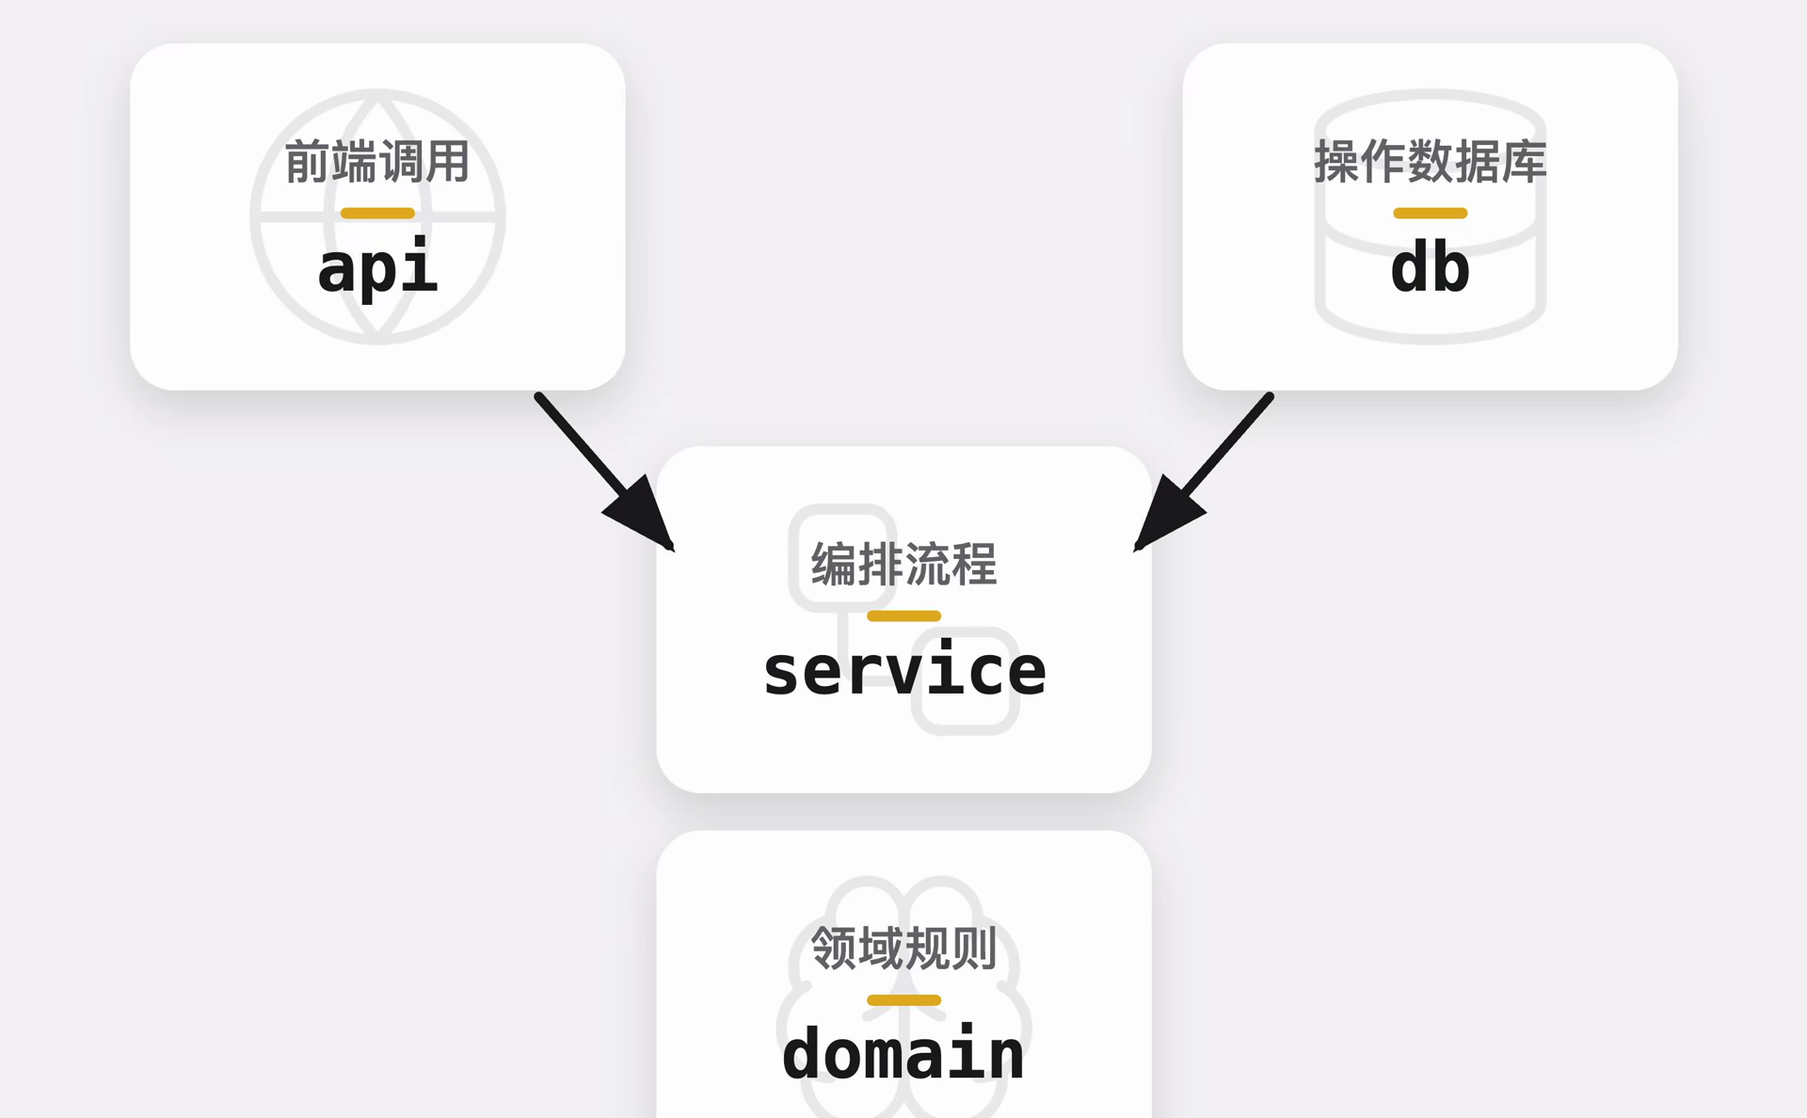
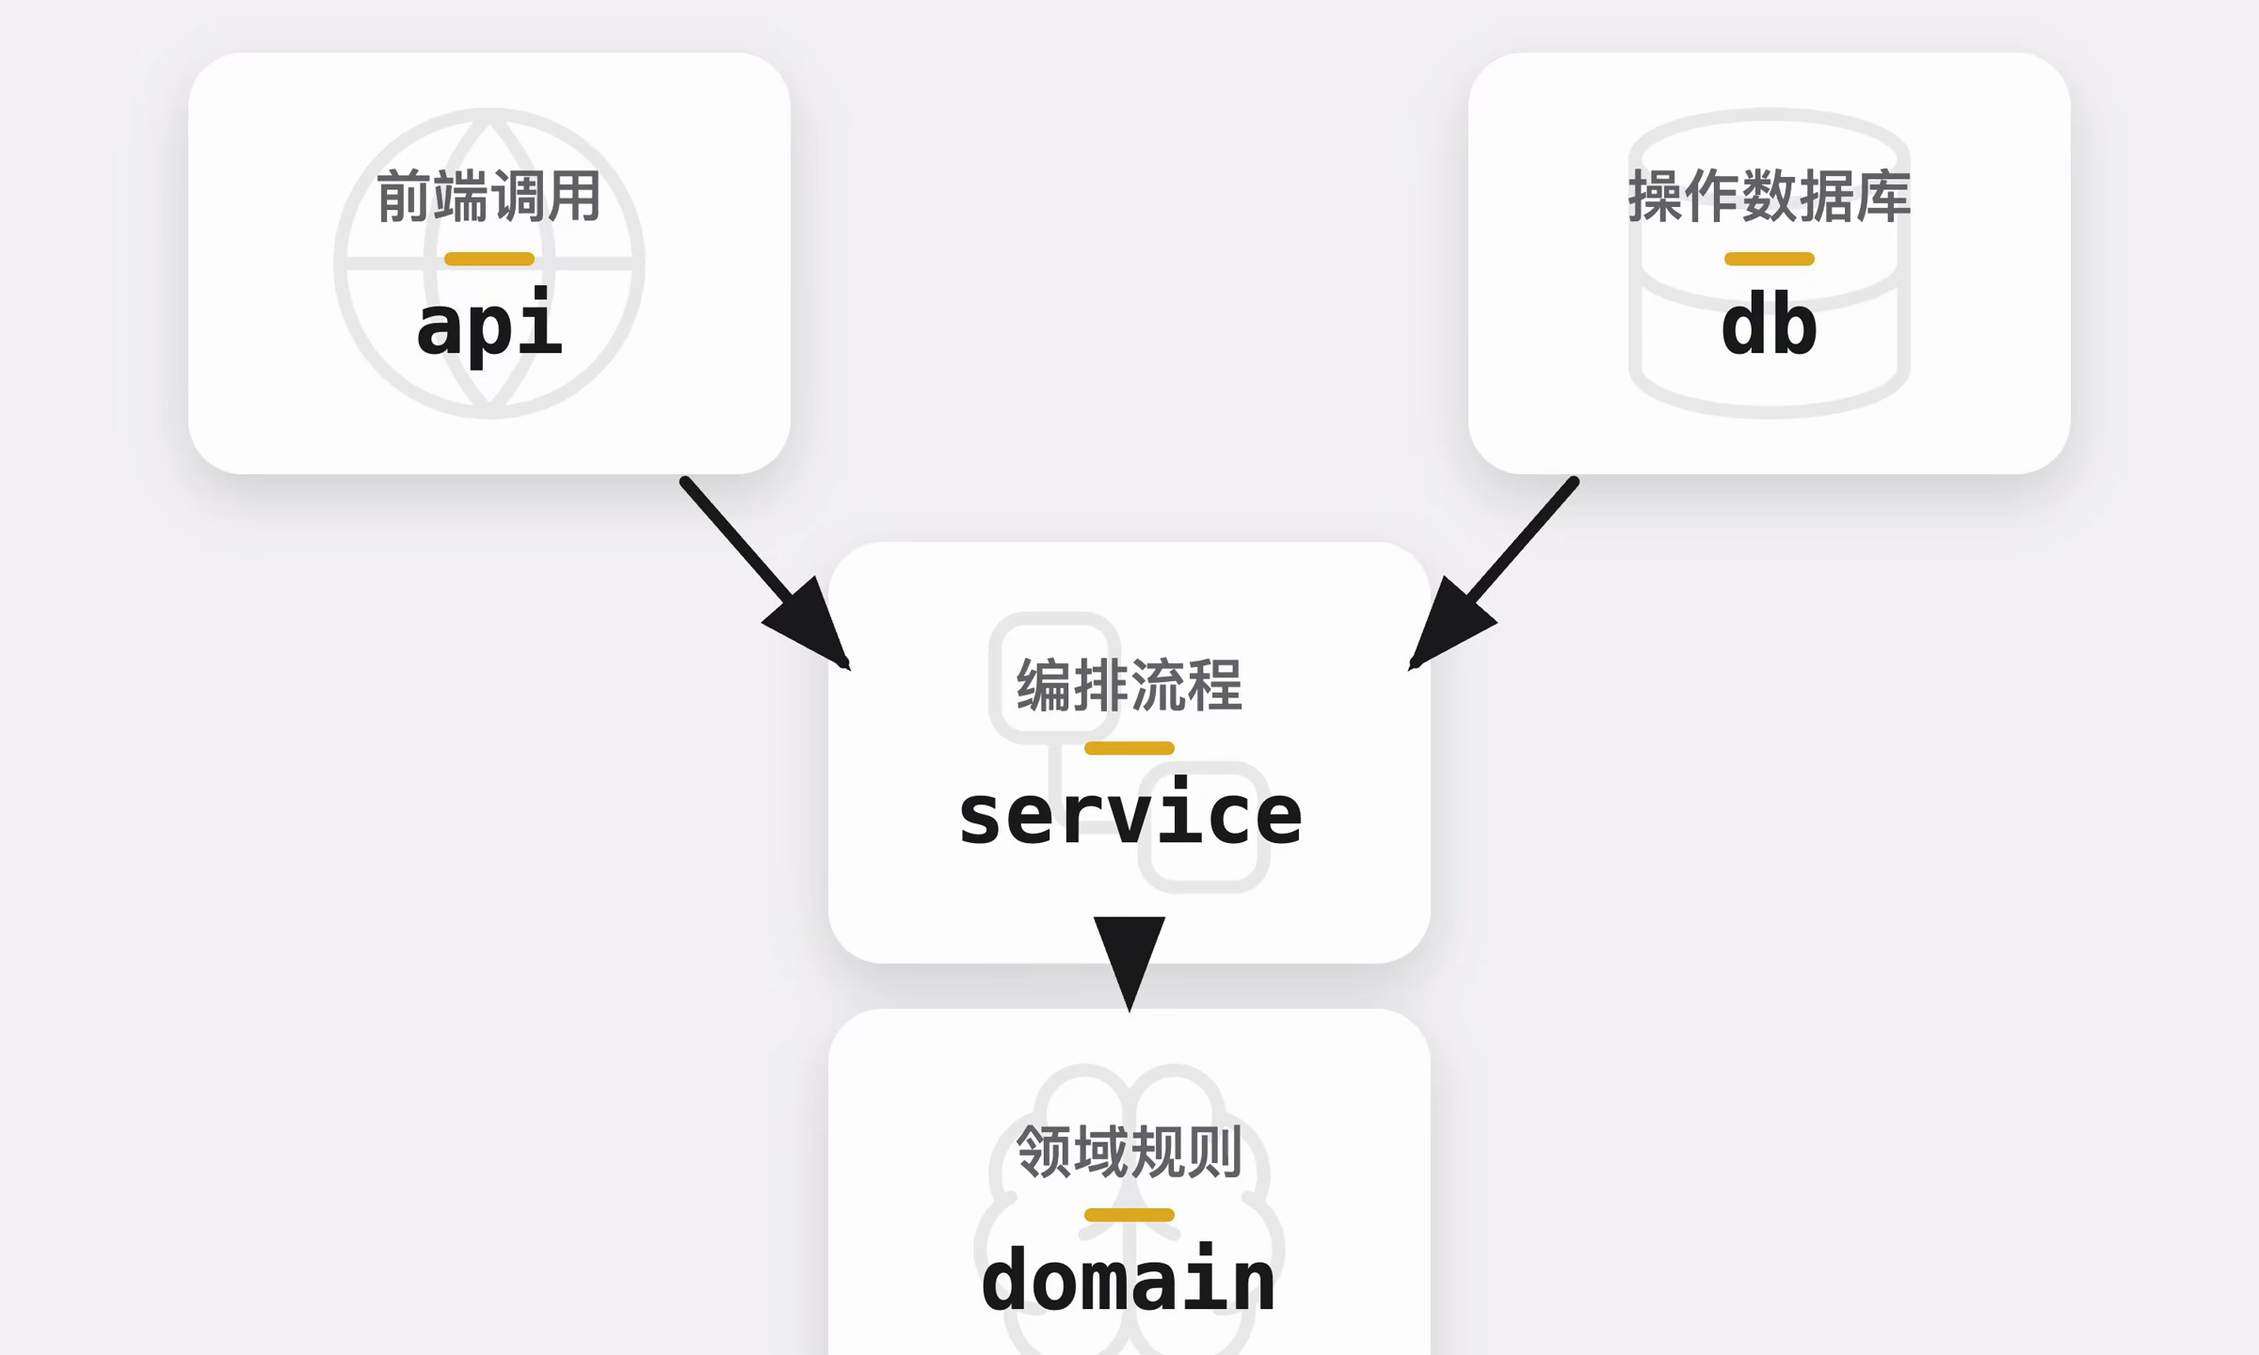
docs: 优化架构设计、TDD、企业 Agent 架构四篇文章的配图和标题
重选过渡帧和裁切，补上缺的箭头、字段和设计思路图；企业 Agent 一篇去掉标题前缀并拆开长段；修正错字和行内代码标记。

diff --git a/blog/design-agent-architecture/index.md b/blog/design-agent-architecture/index.md
@@ -5,7 +5,7 @@ date: 2026-11-01
 toc_max_heading_level: 2
 ---
 
-众所周知，agent 就是个循环，看起来非常简单。但如果真要做一个 agent，要考虑的问题其实不少。如何适配多种模型，如何确保命令执行安全，以及在模型快速进化的现在，要如何设计 harness 来保持可扩展性。这篇文章将从零设计一个 Agent 后端。你不仅能了解一个 agent 到底应该怎么设计，更重要的是，这套设计思路可以移植到任何系统上。
+众所周知，agent 就是个循环，看起来非常简单。但如果真要做一个 agent，要考虑的问题其实不少。如何适配多种模型，如何确保命令执行安全，以及在模型快速进化的现在，要如何设计 harness 来保持可扩展性。这篇文章将从零设计一个 agent 后端。你不仅能了解一个 agent 到底应该怎么设计，更重要的是，这套设计思路可以移植到任何系统上。
 
 ![Agent 循环本身只有几行，难点在于要接多家模型，还要防住危险的命令](./agent-loop.png)
 
@@ -13,17 +13,21 @@ toc_max_heading_level: 2
 
 ## 一个 Agent 后端的工作流程
 
-首先，让我们梳理一下一个 agent 后端的工作流程。第一步，开始一个新对话，或者继续之前的旧对话，然后收到前端发送的用户信息，接着将指令，可用工具，历史消息等信息组织成上下文，再将上下文发送给模型，收到模型回复。如果模型的回复中有工具调用，就另外调一次模型来审核工具调用是否合理。当然也需要另外组织一份上下文。接着，如果审核通过，就执行工具，并将执行结果，带着之前的上下文一起重新传给模型。如果审核不通过，就返回拒绝结果。重复前面的步骤 3 到步骤 6，直到模型的响应中不再有工具调用，或者循环次数达到上限，就结束这轮对话，将信息返回给前端。这个过程中，每条信息产生的时候，都会做持久化存储。
+首先，让我们梳理一下一个 agent 后端的工作流程。第一步，开始一个新对话，或者继续之前的旧对话，然后收到前端发送的用户信息，接着将指令，可用工具，历史消息等信息组织成上下文，再将上下文发送给模型，收到模型回复。如果模型的回复中有工具调用，就另外调一次模型来审核工具调用是否合理。当然也需要另外组织一份上下文。接着，如果审核通过，就执行工具，并将执行结果，带着之前的上下文一起重新传给模型。如果审核不通过，就返回拒绝结果。
 
 ![工作流程共八步，第 3 到第 6 步循环执行，每条消息都会持久化](./workflow.png)
 
+重复前面的步骤 3 到步骤 6，直到模型的响应中不再有工具调用，或者循环次数达到上限，就结束这轮对话，将信息返回给前端。这个过程中，每条信息产生的时候，都会做持久化存储。
+
 这个流程其实实现起来并不难。如果我们不带着任何设计去实现这个流程，大概就是一个函数负责其中一个步骤。但这样会让代码变得难以维护又难以测试。比如，想把使用的模型从 OpenAI 换成 Anthropic 的协议，得同时修改多个地方。又或者想要测试一下流程，却得真正调用模型，既花钱又很慢。
+
+![每个步骤一个函数：协议写死在各处，跑一次测试就要花钱又花时间](./hardcoded.png)
 
 ## 领域层、应用层与适配层
 
 所以为了好维护，好测试，我们通常会将要做的事分为几层，每层都对应不同的工作性质。
 
-![领域层负责定义，应用层负责编排，适配层在最外圈](./layers.png)
+![领域层负责定义，应用层负责编排，适配层负责翻译](./layers.png)
 
 首先是领域层，它用来定义系统自己的语言。比如什么是对话，什么是工具，什么是上下文。每个系统都有自己对这些概念的理解。怎么定义这些概念，决定了这个系统会是什么样子的。
 
@@ -77,11 +81,15 @@ toc_max_heading_level: 2
 
 因为 `Context` 要用于不同的任务，输出类型也会不同。回复用户的时候，要的是 `AssistantMessage`。后面审核工具调用时，要的则是审核的结论。所以我使用了一个泛型来定义输出类型。这里我使用的是 Python 的泛型语法。如果你感兴趣的话，可以查看我之前的一期视频。
 
+![Context 用泛型 O 表示输出类型，回复用户时是 AssistantMessage，审核时是审核结论](./context-generic.png)
+
 ## 模型调用与协议翻译
 
 那有了上下文之后，我们要怎么发给模型呢？和 `SessionStore` 一样，我们在应用层定义一个 `ModelClient` 接口，规定怎么调用模型，具体实现细节交给适配层。它只有一个方法，`generate`，传入 `Context` 和需要的模型参数，然后返回 `Context` 里 `output_type` 指定的类型。
 
 模型参数指的是，用的哪个模型，思考多深，我们用一个叫 `ModelSettings` 的对象来包装。因为这两个参数总是成对出现，所以我将它们包在一起。这里的 `effort` 我们定义了六档，和实际的各个模型厂商会有差别，等会儿的适配层要进行翻译。
+
+![ModelClient 只有 generate 一个方法，ModelSettings 包着模型和六档 effort](./model-settings.png)
 
 适配层我们实现三个主流协议，分别是 OpenAI，Anthropic 和 Google。这三家的请求格式都不太一样。就拿思考深度来说，在我们的系统里我们叫 `effort`，而 OpenAI 叫 `reasoning_effort`，Anthropic 叫 `output_config.effort`，Gemini 叫 `thinking_level`。所以我们必须有一个翻译的动作。之后如果出现了新的协议，再在适配层重新定义一个类即可。只要实现了 `ModelClient` 接口，我们的应用层都可以直接使用，而不用修改任何代码。
 
@@ -97,9 +105,11 @@ toc_max_heading_level: 2
 
 ![ToolCallReviewer 产出 Decision，拒绝原因作为 ToolResult 的内容交还给模型](./roles.png)
 
-## 用 AgentService 编排流程
+## AgentService 的流程编排
 
-那么到这里，我们领域该定义的已经定义完了，我们可以编排整个流程了。在应用层定义一个 `AgentService` 来包装这个流程，它需要拥有 `ModelClient` 和 `SessionStore` 来使用外部服务。然后是两个角色 Assistant 和 Reviewer，还有两个角色各自的模型设置。这样两个角色就可以用不同的模型和思考深度。Reviewer 可以考虑用一个更便宜更快的模型。最后是循环次数的上限 `max_iterations`，防止模型反复调用工具停不下来。
+那么到这里，我们领域该定义的已经定义完了，我们可以编排整个流程了。在应用层定义一个 `AgentService` 来包装这个流程，它需要拥有 `ModelClient` 和 `SessionStore` 来使用外部服务。然后是两个角色 `assistant` 和 `reviewer`，还有两个角色各自的模型设置。这样两个角色就可以用不同的模型和思考深度。`reviewer` 可以考虑用一个更便宜更快的模型。最后是循环次数的上限 `max_iterations`，防止模型反复调用工具停不下来。
+
+![AgentService 持有两个接口、两个角色和各自的模型设置，对前端提供 new_session、list_session、chat](./agent-service.png)
 
 所有前端要调用的功能我们都需要在 `AgentService` 定义出来，像新建对话，列出对话和发送信息。至于这个前端是命令行还是网页，应用层并不关心，那是适配层该关心的事情。如果前端是网页，适配层就提供一个 HTTP 接口，将前端发来的请求转成对 `AgentService` 的调用。如果之后又新增了 CLI 的前端，就再新增一个适配器就可以了。
 
@@ -117,18 +127,22 @@ toc_max_heading_level: 2
 
 于是我们就完成了设计。
 
-## 让 AI 按设计实现
+## AI 实现与设计思路
 
-你可以把这一大堆我们的设计结论都放进和 AI 的对话框里，让它帮你实现。别忘了加上之前提过的 TDD 的策略，让它写好测试再实现。当我们把接口都限定好了，AI 只需要实现功能，代码质量就绝对不会差到哪去。
+你可以把这一大堆我们的设计结论都放进和 AI 的对话框里，让它帮你实现。别忘了加上之前提过的 [TDD](/roadmap/前言/AI毁了我的代码直到我开始TDD) 的策略，让它写好测试再实现。当我们把接口都限定好了，AI 只需要实现功能，代码质量就绝对不会差到哪去。
 
-看完这篇文章，你应该学会了一套设计思路，就是先梳理流程，建立一套系统自己的语言作为领域层。然后在应用层编排流程，外部服务在应用层定义接口，然后在适配层实现，最后在组装根把具体的类接起来。你可以将这一套思路用在任何系统上，而不只是 Agent 的系统。
+看完这篇文章，你应该学会了一套设计思路，就是先梳理流程，建立一套系统自己的语言作为领域层。然后在应用层编排流程，外部服务在应用层定义接口，然后在适配层实现，最后在组装根把具体的类接起来。你可以将这一套思路用在任何系统上，而不只是 agent 的系统。
 
-## 分叉对话与对话压缩
+![设计思路五步：先梳理流程，再定领域层、编排应用层、定义并实现接口，最后在组装根接起来](./design-steps.png)
+
+## 分叉对话与对话压缩的设计练习
 
 如果你想继续沿着这个例子，锻炼自己的设计能力，我留下了几个现在流行的功能没有填进去。你可以尝试自己填一下，看看要怎么设计来完成。
 
 首先是分叉对话。用户可以从一个已有对话的某条消息开始，分支出一个新的对话。新对话带着这条信息之前的全部历史，之后就各走各的互不影响。
 
 然后是对话压缩，对话越长，发给模型的上下文就越大，费用和延迟都会更高。压缩就是在对话变长之后，让模型把较早的消息总结成一段摘要。之后发给模型的就是这段摘要，加上最近的消息。
+
+![分叉对话从某条消息分出新的历史，对话压缩把较早的消息换成摘要](./fork-compact.png)
 
 试试设计一下这两个功能吧。

diff --git a/roadmap/前言/企业Agent项目架构设计/index.md b/roadmap/前言/企业Agent项目架构设计/index.md
@@ -1,0 +1,71 @@
+---
+sidebar_position: 6
+title: 企业Agent项目架构设计
+description: 个人项目和企业项目在架构上的区别，以及灰度发布、Prompt 管理、工具注册、模型仓库和 Trace 分析中心怎么解耦。
+---
+
+# 企业Agent项目架构设计
+
+你是否曾在 B 站或抖音这些视频平台看到过此类标题？从零搭建企业级 Agent 项目，工业级 Agent 项目长什么样？虽然标题如此，但是这些视频通常做的依旧是个人独立项目，通常扛不住面试官细问审查、测试、发布等环节的细节。
+
+企业级项目不代表完成度、可靠性或者代码质量一定比个人项目质量要高，其设计时的主要考量是如何在几十人乃至上百人的团队协作中被长期地运行和维护。
+
+这篇文章希望能够帮助同为应届生和在校生的同学们，不在面试中被相关问题击垮。
+
+## 个人项目与企业项目的架构区别
+
+首先我们先来简单过一下个人项目和企业项目在基础架构上的一些区别。个人项目通常都是单体、非分布式、非微服务的小项目。通常 System Prompt、工具、记忆、项目代码全都保存在一个代码仓库内，即使有做基本的前后端分离，实质还是一个无团队协作需求的单体项目。
+
+而在企业项目里，诸如 Prompt、工具等组件往往按天甚至按小时级别的频繁更新，几乎没有专业团队会将它们放在代码仓库里靠 Git 管理。Git 虽然是分布式版本管理工具，但是它的业务思路依旧是维护一个 `main` 或者 `master` 作为主分支，它天然是不适合去做灰度发布以及 A/B 测试等场景的，因此企业通常都会在运维平台中加入版本对比功能的支持。
+
+![个人项目是一个文件夹，企业项目是多方协作的系统](./system-view.png)
+
+## 企业 Agent 的抽象架构与灰度发布
+
+这是一个举例用的企业 Agent 的抽象架构，实际企业项目可能会更加复杂。
+
+![企业 Agent 的整体架构](./enterprise-architecture.png)
+
+中大型互联网企业通常都会有自己的运维发布平台，每次代码版本更新都会先打包，然后以容器形式进行发布。如果活跃用户基数比较大，直接进行全量发布，很有可能会因为一个 bug 而影响全部用户，因此大家通常都会对 5% 到 10% 左右的用户进行灰度发布。这些用户使用新版本的应用，而其余的用户依旧使用老版本，只有确认新版本没有恶性 bug 之后，才会继续增加新版本的用户比例。
+
+每一次正式版本的 Agent 发布，都需要走完整的发布和验证流程。像 Prompt 细节和新增的模型支持这种基本和代码仓库解耦的内容，如果和 LangGraph Runtime 放在一起，灰度太慢，太浪费资源了，因此我们基本都会将这些组件进行独立化，每个组件可能会有自己的灰度发布系统。
+
+再往后，在这所有的组件之上，是由 Langfuse 或者 LangSmith 搭建的数据分析中心，由于传递回来用于分析的信息，很多时候不只是 Agent Trace，也有可能包含业务信息，很多企业会再搭建一套自己的分析平台，结合 Langfuse 一起使用。
+
+## Prompt 管理中心
+
+同一个项目的 System Prompt 可能有几十个不同的版本，项目组需要知道哪个版本的实测效果最好，以及到底是什么细节造成了效果的提升。
+
+这是一个简化的 Prompt 管理中心，图中是一个项目的两个 System Prompt 版本，以类似于 Git diff 的形式显示两者的差异，并在底下加上了 A/B 测试的指标差异。
+
+![Prompt 管理中心对比两个版本的差异和指标](./prompt-version.png)
+
+同一个项目也可能有多个 Prompt 配置，比如 System Prompt，可能在短任务和长任务的配置是不同的，也许在特定工具被加载后，也需要有对应的 Prompt 加载。项目代码中可以以索引的形式标记对应的 Prompt，用某种 package 或者 API 将其与配置中心里的 Prompt 对应，从而在解耦两者的情况下，保证应用的正常使用和数据比较。
+
+![一个项目下的多组 Prompt 配置](./prompt-config.png)
+
+## 工具管理中心
+
+一个企业内部可能有成千上万个工具，Agent 本身会通过意图识别，选择性地加载其中的一部分，但如果这些工具全都被放在主代码仓库里，其对开发复杂性的影响将是非常恐怖的。
+
+为了将工具与代码仓库进行解耦，通常会采用注册中心或者发布中心的模式，像 DeepSeek Harness 就让 GitHub 充当了自己的半个注册中心，将这些工具全都注册在外围，而不影响自身的复杂性。
+
+企业应用也理所应当地会这么干，为每个 Agent 项目只绑定限定数量的工具，工具的绑定也不在代码仓库进行，而是在工具管理中心中进行，尽一切可能地降低耦合度。
+
+![工具放在独立仓库，通过注册表接入 Agent](./tool-registry.png)
+
+## 模型仓库
+
+现在市面上至少有几百个不同的大模型版本，企业用户通常还会有自己的企业 API 接口或者自己部署的模型，如果把 API 的地址和 key 全都保存在项目的 YAML 文件里，即使有 Docker 或者云服务协作也显得太哈人了，因此模型仓库几乎是必要的。
+
+任何一个项目只用一个内部的 API 就可以连接来自不同厂商的任何模型。如果某个项目有特定的需求，也可以在请求模型仓库时加上特定的需求字段，比如要求 GPT6.1 模型，或者要求任何一个具有推理能力的模型，或者只让图像模型收到请求。
+
+![模型版本仓库横向比较各个模型](./model-registry.png)
+
+模型版本仓库最好也对应地将各路模型 API 的 bug 和兼容性问题解决，这样开发团队就不用花很多时间对齐 Claude 和其他模型之间恶心的兼容问题了。
+
+## Trace 分析中心
+
+最后一环则是 Trace 分析中心，用于对 Agent Trace 进行具体的点对点的分析。通常使用 Langfuse 和 LangSmith，部分企业也会有自研的分析中心，绝大多数的分析中心都是基于 OpenTelemetry 构建的，有了 OpenTelemetry 就再也不用担心开发到一半突然发现自己 Trace 准备得不全这种倒霉的事情。个人开发时也许不需要做这么细致的 bug 研究，但在大项目中 Langfuse 或者其替代品往往是必不可少的。
+
+![Trace 中心从时间轴定位问题](./trace-center.png)
